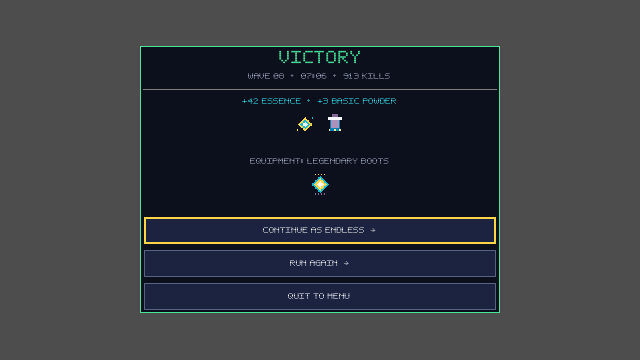
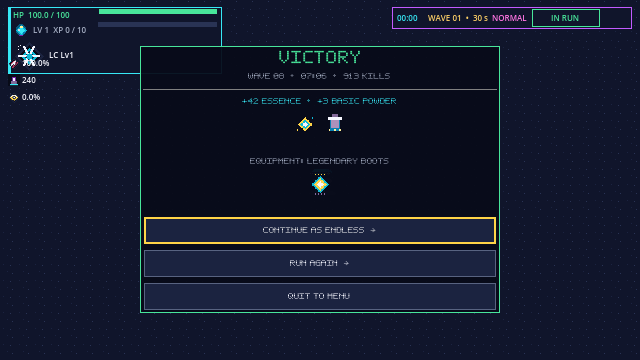
test: capture chest and result in active run context

diff --git a/docs/art/evidence/2026-10-18/README.md b/docs/art/evidence/2026-10-18/README.md
@@ -13,9 +13,9 @@ Captures 640×360 générées avec Godot 4.7.2 sous Xvfb/Mesa llvmpipe. Les smok
[11 lines of base64/hex data omitted]
@@ -35,7 +35,7 @@ Captures 640×360 générées avec Godot 4.7.2 sous Xvfb/Mesa llvmpipe. Les smok
 
 Les captures ont été régénérées après import des exports graphiques renouvelés le 2026-10-18 et inspectées. La planche catalogue, le hub et le combat ont changé de hash; les autres captures sont identiques. La capture du skill tree a ensuite été refaite avec le vrai hub Survival derrière le panneau : l’ancien gris extérieur provenait du viewport par défaut du smoke isolé, alors que le jeu l’intègre sur le fond sombre du hub. L’utilisateur a confirmé que le texte courant et les labels pixel du hub et de l’équipement sont lisibles à 640×360. Ces images valident le rendu virtualisé ciblé, pas le GPU matériel ni les contrôles physiques. La revue audio en contexte reste **[OUVERTE]** à la demande de l’utilisateur de poursuivre sans écoute.
 
-Les onze premières captures `states/*.png` ont été générées par `game/tests/ui_states_evidence_smoke.gd` sous Godot 4.7.2/Xvfb/Mesa llvmpipe. Les captures supplémentaires viennent des smokes `equipment_panel_visual_smoke.gd`, `survival_entry_smoke.gd`, `survival_hud_smoke.gd`, `survival_revive_smoke.gd` et `survival_run_stat_hub_smoke.gd`; elles couvrent aussi un slot sans pièce compatible, l’échec réel d’une mutation d’équipement dans le hub et la confirmation de vente. Les états de revue utilisent des données temporaires; aucune sauvegarde normale n’est écrite. Les panneaux coffre et résultat sont centrés par le conteneur parent utilisé à l’intégration. Ces captures ne couvrent pas toutes les erreurs, branches de focus, tailles ni contrôles physiques.
+Les onze premières captures `states/*.png` ont été générées par `game/tests/ui_states_evidence_smoke.gd` sous Godot 4.7.2/Xvfb/Mesa llvmpipe. Le coffre et le résultat utilisent maintenant les instances déjà montées sous `SurvivalSession/HUD`, avec génération d’ennemis désactivée; les panneaux sont donc examinés sur le fond de run réel, sans dialogue autonome sur le gris du viewport. Les captures supplémentaires viennent des smokes `equipment_panel_visual_smoke.gd`, `survival_entry_smoke.gd`, `survival_hud_smoke.gd`, `survival_revive_smoke.gd` et `survival_run_stat_hub_smoke.gd`; elles couvrent aussi un slot sans pièce compatible, l’échec réel d’une mutation d’équipement dans le hub et la confirmation de vente. Les états de revue utilisent des données temporaires; aucune sauvegarde normale n’est écrite. Ces captures ne couvrent pas toutes les erreurs, branches de focus, tailles ni contrôles physiques.
 
 ## Parcours du paquet Linux/X11 Release — build du 2026-10-18
 

diff --git a/docs/qa/TESTS.md b/docs/qa/TESTS.md
@@ -2243,3 +2243,11 @@ Note de clôture : le blocage historique du smoke `sandbox_ui_smoke.gd` décrit 
 - [x] La revue des captures a détecté que `skill_tree_panel_visual_smoke.gd` rendait le panneau seul : son backdrop translucide mélangeait le gris de viewport Godot, absent en jeu. Le smoke instancie maintenant le vrai hub Survival comme fond, puis ajoute le panneau avec un service de progression isolé; aucune sauvegarde normale n’est lue ou modifiée.
[1 lines of base64/hex data omitted]
 - [x] `godot_project_import` et `skill_tree_panel_visual_smoke` passent via CTest (**2/2**). L’UI et les données runtime ne changent pas; la lisibilité globale et les contrôles physiques restent **[OUVERTS]**.
+
+## Captures intégrées du coffre et du résultat — 2026-10-18
+
+- [x] La revue a repéré le fond gris de viewport dans les captures isolées `chest.png` et `run-result.png`. `ui_states_evidence_smoke.gd` utilise désormais les panneaux réels sous `SurvivalSession/HUD`, avec spawning d’ennemis désactivé; la session n’a pas de service de progression et ne peut pas écrire une sauvegarde normale.
[1 lines of base64/hex data omitted]
+- [x] Le smoke d’évidence passe sous Xvfb/Godot 4.7.2. CTest ciblé `godot_project_import`, coffre, layout coffre, HUD, résultat Survival et panneau résultat : **6/6**.
+- [i] Ce rendu virtualisé ne remplace pas une capture vidéo d’une run réelle ni le test matériel; les fixtures d’offres/récompenses restent des données de présentation.
+- [i] À la fermeture, le smoke signale 12 instances ObjectDB et 5 ressources encore référencées, comme le smoke HUD existant exécuté séparément; les assertions et six tests ciblés passent, mais l’origine des références n’est pas isolée par cette tranche.
